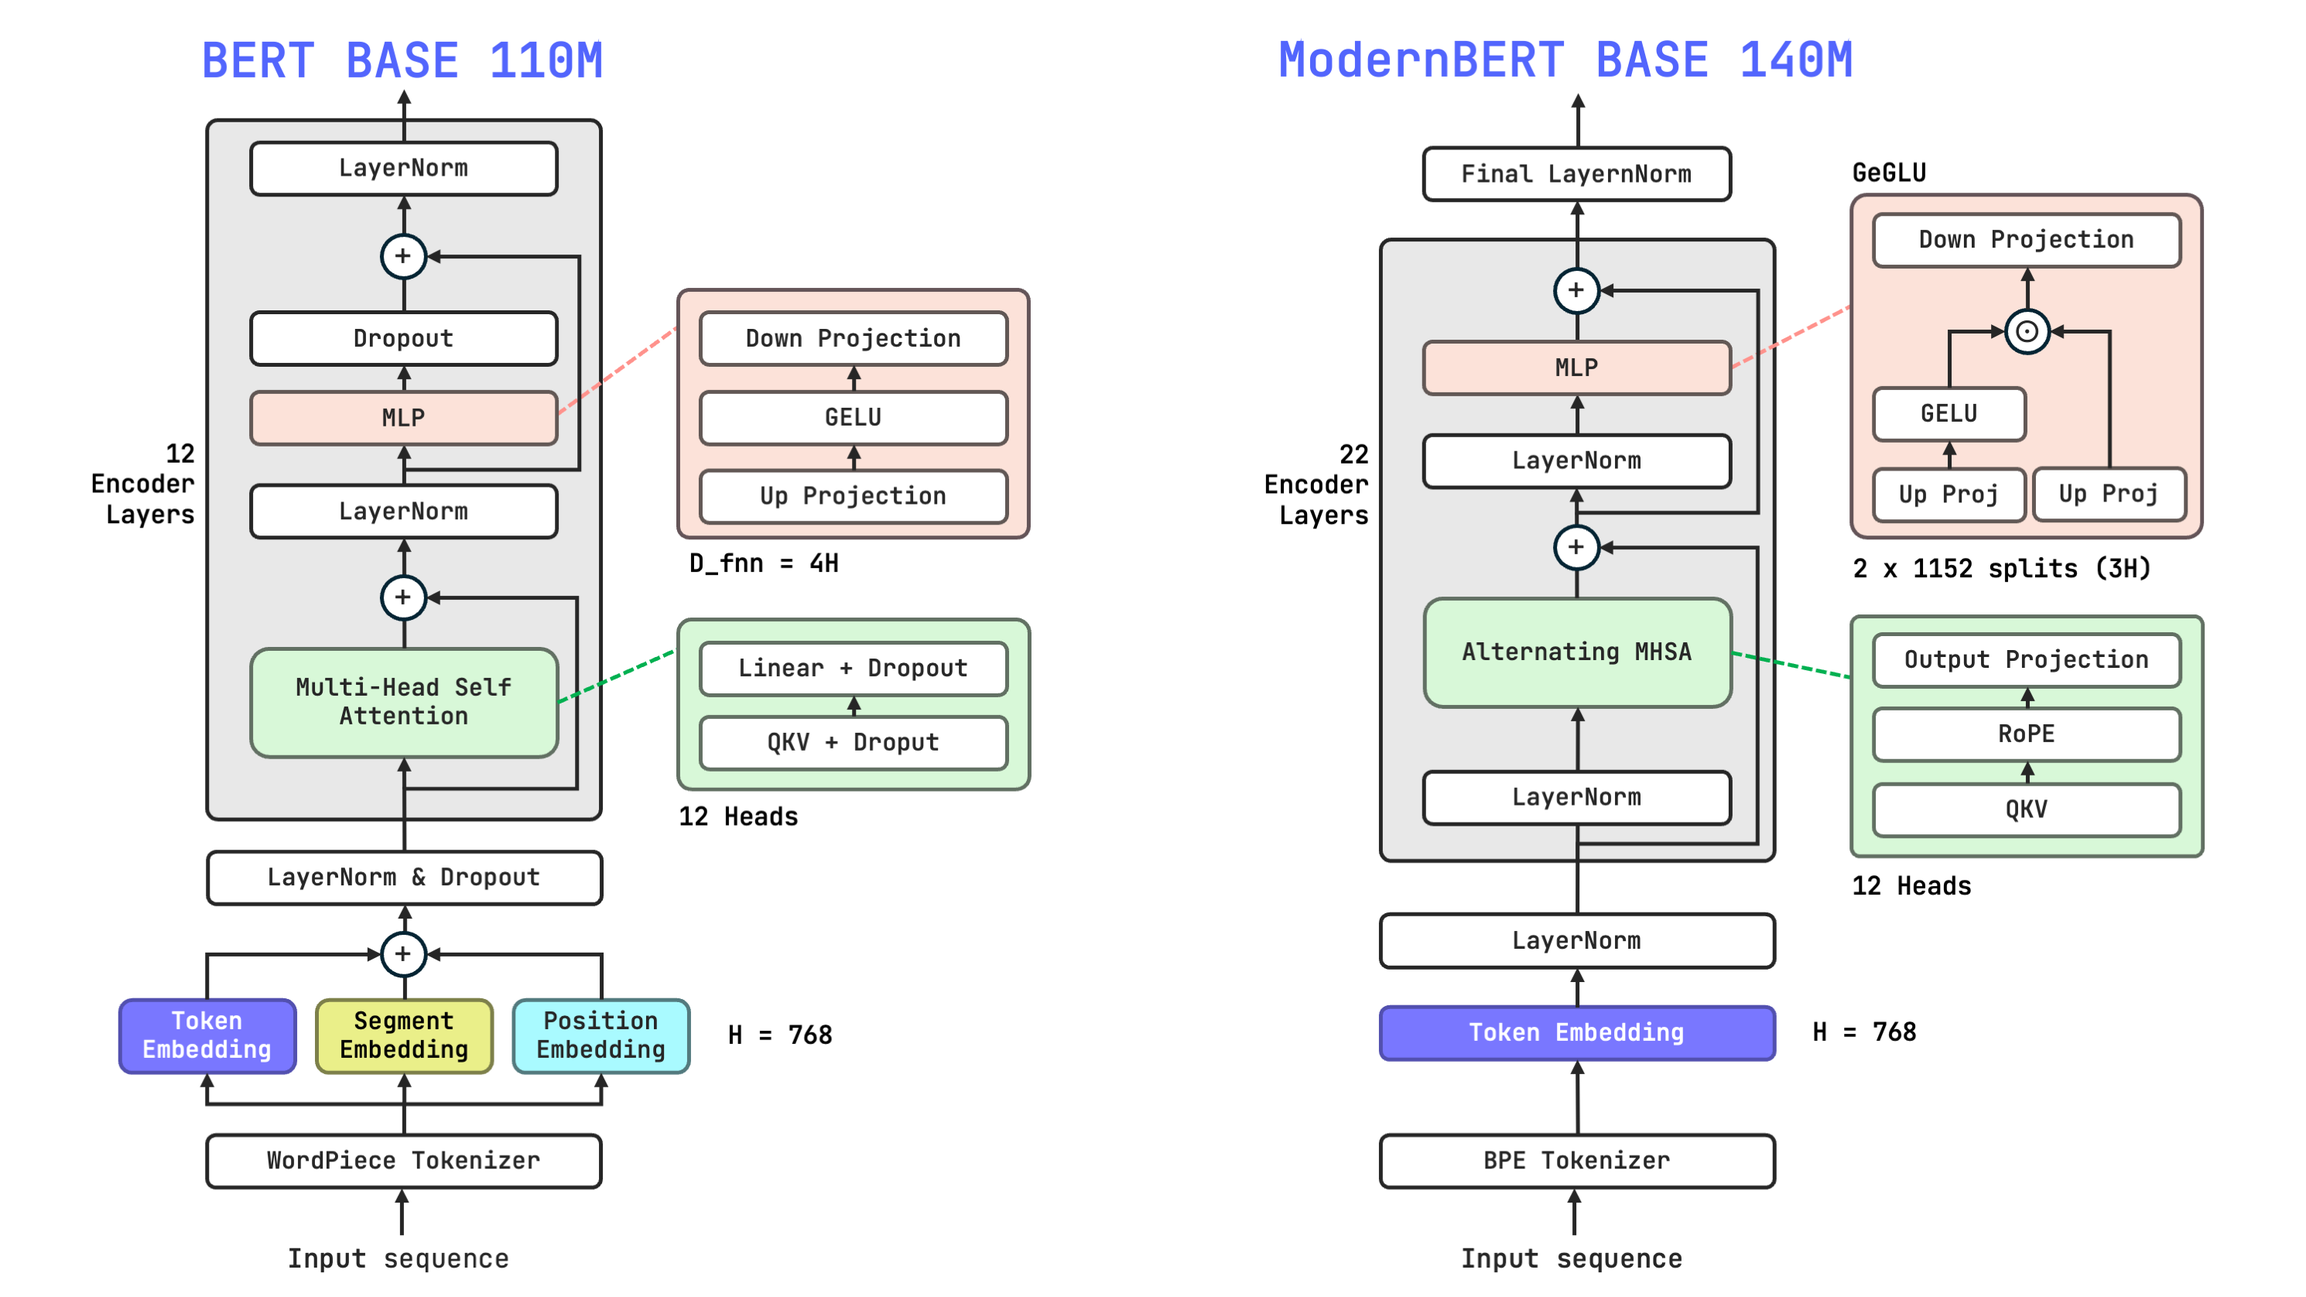
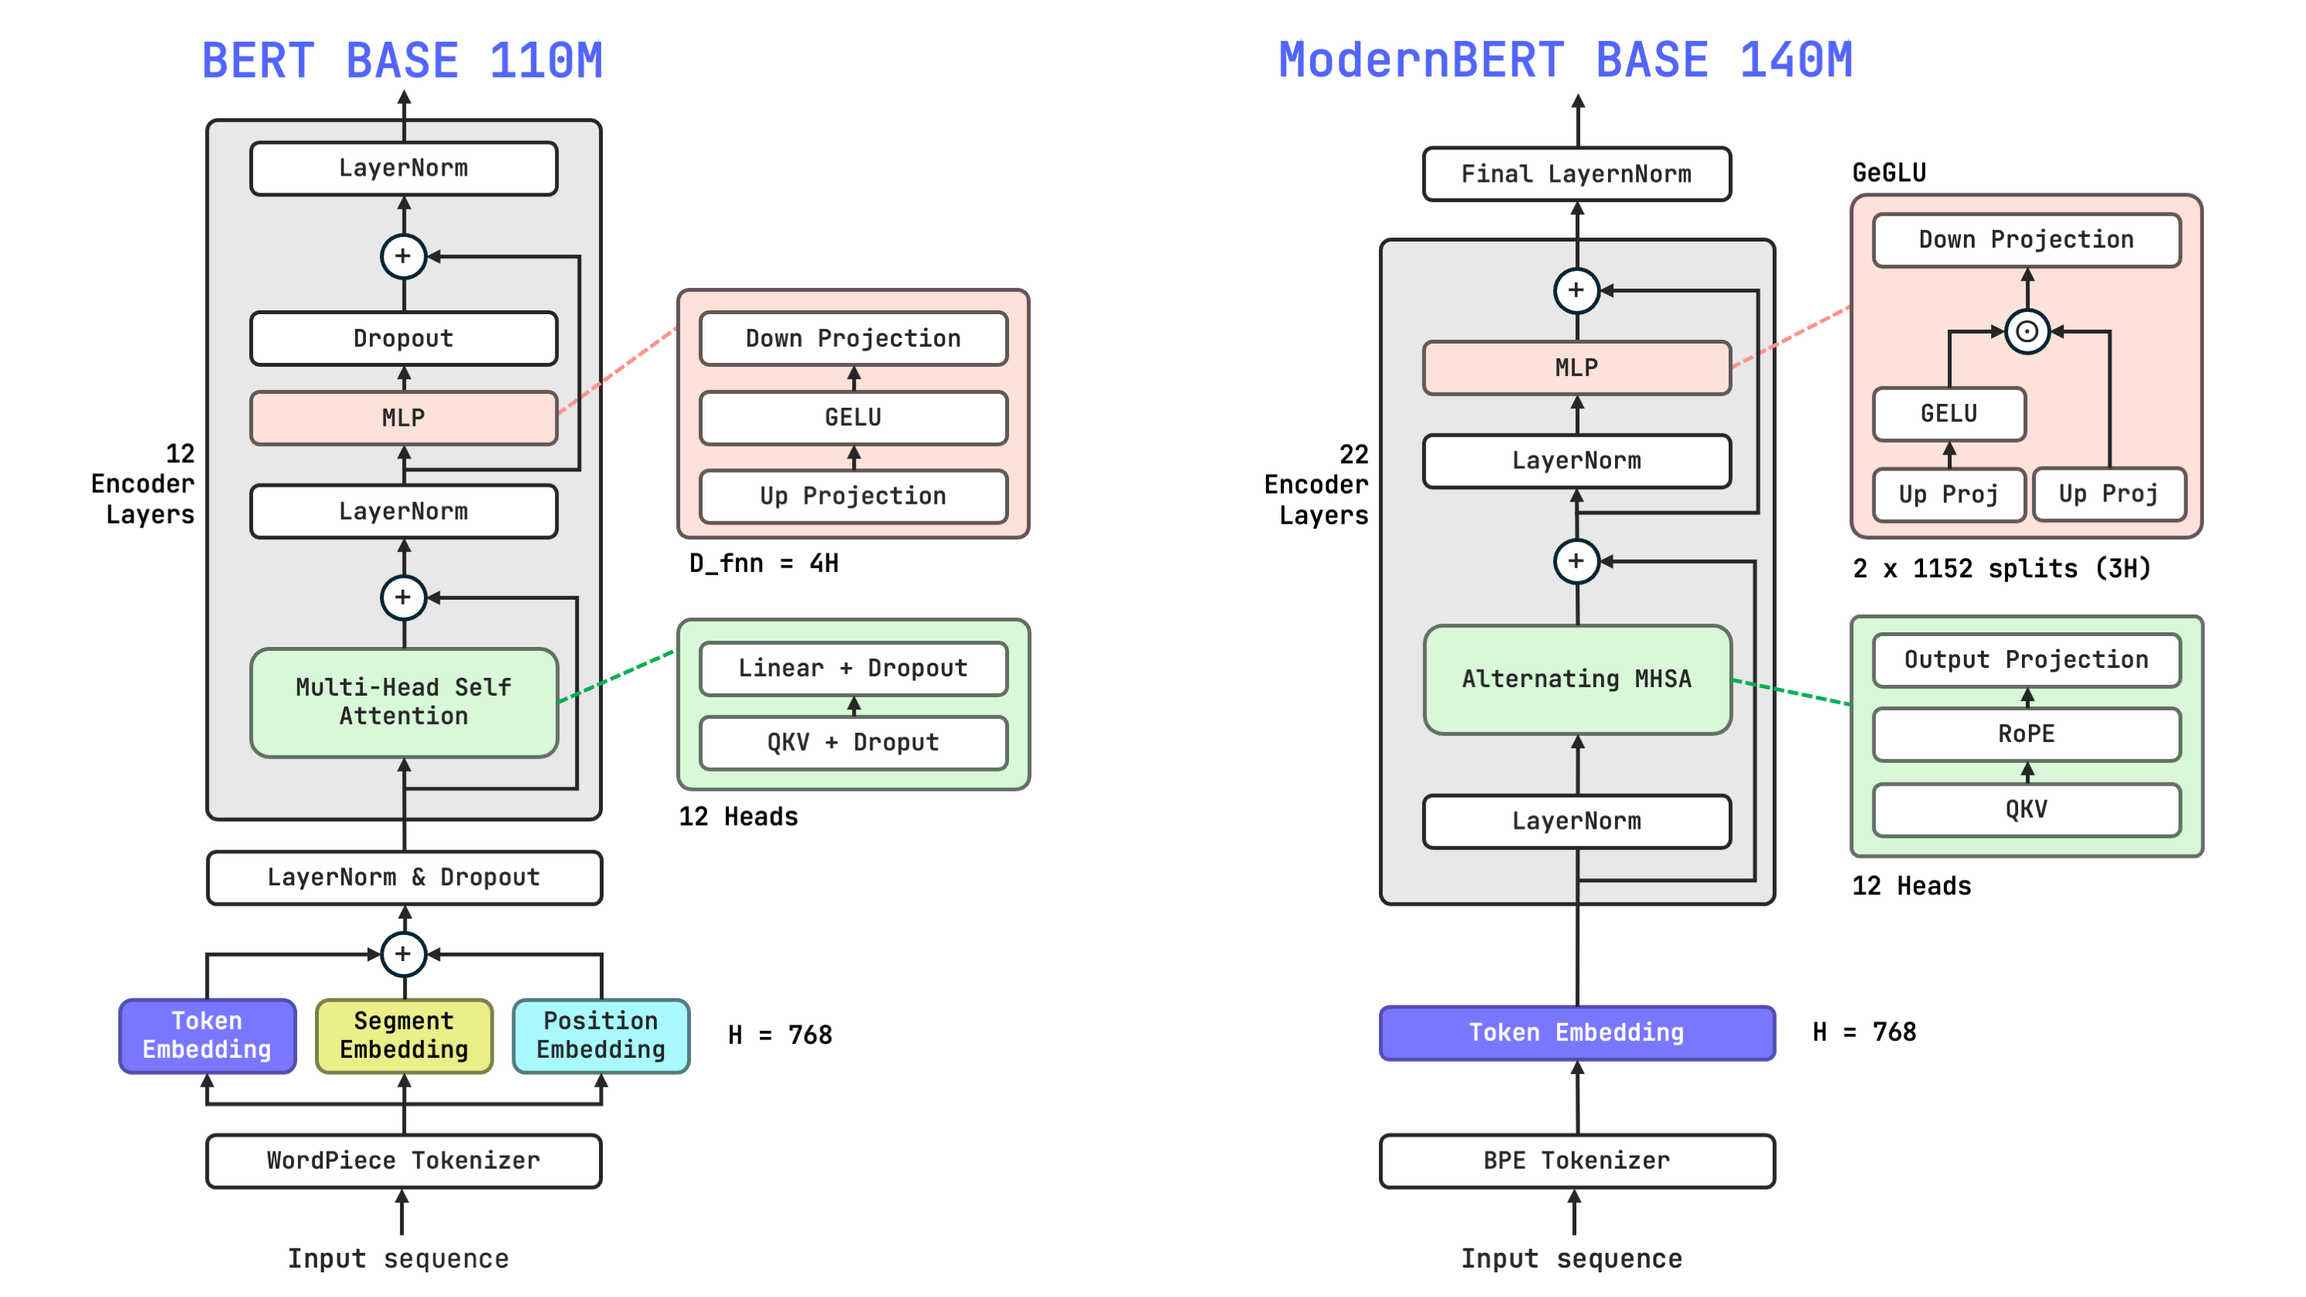
more visuals + table of contents

Changed region(s): [[0.593, 0.4033, 0.7802, 0.7757]]

diff --git a/blogs/modernbert-bert-comp.html b/blogs/modernbert-bert-comp.html
@@ -30,7 +30,7 @@
                 <nav class="nav-links">
                     <a href="blogs.html" class="nav-link">Blogs</a>
                     <a href="../projects/projects.html" class="nav-link">Projects</a>
-                    <a href="https://www.linkedin.com/in/mohammed-sbaihi-aa6493254/" target="_blank" class="nav-link">Resume</a>
+                    <a href="../resume.html" class="nav-link">Resume</a>
                 </nav>
                 <div class="social-icons">
                     <a href="https://github.com/kevlariii" target="_blank" class="social-link">
@@ -52,7 +52,7 @@
             <header class="blog-header">
                 <h1 class="blog-post-title">ModernBERT vs BERT: A Comprehensive Comparison</h1>
                 <div class="blog-meta">
-                    <time datetime="2025-01-20">Nov 24, 2025</time>
+                    <time datetime="2025-01-20">January 20, 2025</time>
                 </div>
             </header>
             
@@ -88,7 +88,17 @@
             document.querySelector('.nav-links').classList.toggle('active');
         });
 
-        // Initialize markdown-it with KaTeX for math rendering
+        // Function to slugify heading text (GitHub-style)
+        function slugify(text) {
+            return text
+                .toLowerCase()
+                .trim()
+                .replace(/[^\w\s-]/g, '')
+                .replace(/[\s_-]+/g, '-')
+                .replace(/^-+|-+$/g, '');
+        }
+
+        // Initialize markdown-it
         const md = window.markdownit({
             html: true,
             linkify: true,
@@ -107,6 +117,24 @@
             katexOptions: { macros: {"\\RR": "\\mathbb{R}"} }
         });
 
+        // Override heading renderer to add IDs
+        const defaultHeadingRender = md.renderer.rules.heading_open || function(tokens, idx, options, env, self) {
+            return self.renderToken(tokens, idx, options);
+        };
+
+        md.renderer.rules.heading_open = function (tokens, idx, options, env, self) {
+            const token = tokens[idx];
+            const nextToken = tokens[idx + 1];
+            
+            if (nextToken && nextToken.type === 'inline') {
+                const headingText = nextToken.content;
+                const id = slugify(headingText);
+                token.attrSet('id', id);
+            }
+            
+            return defaultHeadingRender(tokens, idx, options, env, self);
+        };
+
         // Fetch and render markdown
         fetch('modernbert-bert-comp.md')
             .then(response => response.text())
@@ -120,6 +148,23 @@
                     wrapper.className = 'table-wrapper';
                     table.parentNode.insertBefore(wrapper, table);
                     wrapper.appendChild(table);
+                });
+
+                // Add smooth scrolling for TOC links
+                document.querySelectorAll('.blog-content .toc a[href^="#"]').forEach(anchor => {
+                    anchor.addEventListener('click', function (e) {
+                        e.preventDefault();
+                        const targetId = this.getAttribute('href').substring(1);
+                        const target = document.getElementById(targetId);
+                        if (target) {
+                            const navbarHeight = 70;
+                            const targetPosition = target.getBoundingClientRect().top + window.pageYOffset - navbarHeight - 20;
+                            window.scrollTo({
+                                top: targetPosition,
+                                behavior: 'smooth'
+                            });
+                        }
+                    });
                 });
             })
             .catch(error => console.error('Error loading markdown:', error));

diff --git a/styles/blogs.css b/styles/blogs.css
@@ -608,3 +608,32 @@ body {
         font-size: 1.1rem;
     }
 }
+
+/* Table of Contents styling - CLEAN VERSION */
+.blog-content .toc {
+    /* background: #106dca; */
+    border-radius: 8px;
+    padding: 1.5rem 2rem;
+    margin: 2rem 0;
+}
+
+.blog-content .toc h2 {
+    margin-top: 0;
+    margin-bottom: 1rem;
+}
+
+.blog-content .toc ol,
+.blog-content .toc ul {
+    margin-bottom: 0;
+    padding-left: 1.5rem;
+}
+
+.blog-content .toc li {
+    margin-bottom: 0.25rem !important;
+}
+
+.blog-content .toc ol ol,
+.blog-content .toc ul ul {
+    margin-top: 0.25rem;
+    margin-bottom: 0;
+}

diff --git a/blogs/modernbert-bert-comp.md b/blogs/modernbert-bert-comp.md
@@ -8,12 +8,43 @@ But tokenization isn't the only aspect where ModernBERT evolves from BERT. Moder
 
 Figure 1: Architectures of the BASE version of BERT and ModernBERT
 
+<div class="toc">
+
+## Table of Contents
+1. [Architecture](#1-architecture)
+   - [Embedding Layer](#11-embedding-layer)
+   - [Encoder Layers](#12-encoder-layers)
+     - [Attention Mechanism](#121-attention-mechanism)
+     - [MLP](#122-mlp)
+     - [Normalization](#123-normalization)
+     - [Dropout](#124-dropout)
+2. [Training Objectives](#2-training-objectives)
+   - [Masked Language Modeling (MLM)](#21-masked-language-modeling-mlm)
+     - [MLM in BERT](#211-mlm-in-bert)
+     - [MLM in ModernBERT](#212-mlm-in-modernbert)
+   - [Next Sentence Prediction (NSP)](#22-next-sentence-prediction-nsp)
+3. [Training Data](#3-training-data)
+   - [BERT Training Data](#31-bert-training-data)
+   - [ModernBERT Training Data](#32-modernbert-training-data)
+4. [Training Paradigms](#4-training-paradigms)
+   - [BERT Training Paradigm](#41-bert-training-paradigm)
+   - [ModernBERT Training Paradigm](#42-modernbert-training-paradigm)
+5. [Conclusion](#5-conclusion)
+
+</div>
+
 ## 1. Architecture
 Both BERT and ModernBERT are based on the [Transformer architecture](https://arxiv.org/abs/1706.03762). They both utilize the encoder part of the Transformer, which is designed for Representation Learning (i.e., the goal is to learn rich representations of the input text) as opposed to decoder architectures used in models like GPT, which are optimized for text generation. However, ModernBERT incorporates several architectural improvements over BERT. These improvements are especially inspired by advancements in decoder models. We'll go over them in this section.
 
 ### 1.1 Embedding Layer
 To represent input embeddings, BERT uses a combination of token embeddings, segment embeddings and position embeddings.
 These embeddings are summed together and are learned during training. Token embeddings are the base embeddings for each token in the vocabulary. Segment embeddings are used to differentiate between two sentences in the Next Sentence Prediction (NSP) task, which was one of the two pre-training objectives of BERT (alongside Masked Language Modeling (MLM)). Position embeddings are used to inject positional information into the model since during training (and inference as well in encoder models) tokens are processed in parallel and thus the model has no inherent sense of token order. 
+
+<p align="center">
+    <img src="../assets/blogs-assets/bert-modernbert/bert-embed.png" alt="Figure 2: BERT's Embedding Layer" width="700">
+</p>
+
+Figure 2: BERT's Embedding Layer
 
 Note that while the original BERT paper doesn't state whether they use learned (absolute) position embeddings or sinusoidal position encodings as in the original Transformer paper, but we can confirm that they use learned position embeddings by inspecting the BERT implementation in the HuggingFace `transformers` library.
 
@@ -33,6 +64,12 @@ We see that BERT uses absolute learned position embeddings with a maximum sequen
 
 ModernBERT, on the other hand, only uses learned token embeddings, it doesn't use segment embeddings since it doesn't use the NSP objective during pre-training (we'll discuss this more in the Training Objectives section). And it doesn't use position embeddings either. Instead it uses [Rotary Position Embeddings (RoPE)](https://arxiv.org/abs/2104.09864) to inject positional information into the model. RoPE has been shown to be more effective than absolute position embeddings in capturing relative positions between tokens, which is crucial for understanding context in language. Additionally, RoPE allows ModernBERT to handle longer sequences more effectively than BERT, as it doesn't have a hard cap on input length like BERT does. While it still has a limit of 8192 tokens, this limit is soft and not architecturally enforced. This limit is especially achieved by tuning RoPE scaling parameters during training. Nevertheless, you can go beyone this limit during inference but with potential degradation in performance.
 
+<p align="center">
+    <img src="../assets/blogs-assets/bert-modernbert/modernbert-embed.png" alt="Figure 3: ModernBERT's Embedding Layer" width="700">
+</p>
+
+Figure 3: ModernBERT's Embedding Layer
+
 One common aspect here is that both models have a hidden dimension of 768 in their BASE versions and 1024 in their LARGE versions.
 
 ### 1.2 Encoder Layers
@@ -41,6 +78,12 @@ Both BERT and ModernBERT use the Transformer encoder layers. Each layer consists
 - MLP (Feed-Forward Neural Network)
 - Normalization
 - Residual Connections
+
+<p align="center">
+    <img src="../assets/blogs-assets/bert-modernbert/encoder-blocks.png" alt="Figure 4: Encoder Layers in BERT and ModernBERT" width="700">
+</p>
+
+Figure 4: Encoder Layers in BERT and ModernBERT
 
 But each model has its own tweaks to these building blocks. And we will discuss each one below. But one main difference is that BERT has 12 encoder layers in its BASE version and 24 in its LARGE version, while ModernBERT has 22 encoder layers in its BASE version and 28 in its LARGE version. Which also explain the difference in the number of parameters: 
 
@@ -57,13 +100,13 @@ ModernBERT also uses the same mechanism but with three main differences:
 1. **Alternating Attention**:
     ModernBERT alternates between Global (Full) Attention and Local Attention. Global Attention is used every 3rd layer. See Figure below for a visual representation of these attention patterns.
 
-    This means that in layers where Local Attention is used, each token can only attend to a fixed window $w$ of previous tokens ($w=128$ in BASE version). This significantly reduces the computational complexity of the attention mechanism from $O(L^2)$ in every layer in BERT to $O(L \cdot w)$ in Local Attention layers in ModernBERT, where $L$ is the sequence length. While the Global Attention layers still have a complexity of $O(L^2)$, They only make up 1/3 of the total layers, thus reducing the overall complexity of the model. 
+    This means that in layers where Local Attention is used, each token can only attend to a fixed window $w$ of neighboring tokens ($w=128$ in BASE version). This significantly reduces the computational complexity of the attention mechanism from $O(L^2)$ in every layer in BERT to $O(L \cdot w)$ in Local Attention layers in ModernBERT, where $L$ is the sequence length. While the Global Attention layers still have a complexity of $O(L^2)$, They only make up 1/3 of the total layers, thus reducing the overall complexity of the model.
 
 <p align="center">
-    <img src="../assets/blogs-assets/bert-modernbert/attention.png" alt="Figure 2: Global and Local Attention Patterns in Bidirectional MLM" width="700">
+    <img src="../assets/blogs-assets/bert-modernbert/attention.png" alt="Figure 5: Global and Local Attention Patterns in Bidirectional MLM" width="700">
 </p>
 
-Figure 2: Global and Local Attention Patterns in Bidirectional MLM
+Figure 5: Global and Local Attention Patterns in Bidirectional MLM
 
 2. **RoPE**:
     As I mentioned earlier, ModernBERT uses RoPE to inject positional information into the model. This happens in every attention layer by modifiying the query and key vectors before computing the attention scores.
@@ -83,6 +126,13 @@ Figure 2: Global and Local Attention Patterns in Bidirectional MLM
 However, both models use the same number of attention heads: 12 in BASE versions and 16 in LARGE versions.
 
 #### 1.2.2 MLP
+
+<p align="center">
+    <img src="../assets/blogs-assets/bert-modernbert/ffn-layers.png" alt="Figure 6: Feed Forward Network Layers in BERT and ModernBERT" width="700">
+</p>
+
+Figure 6: Feed Forward Network Layers in BERT and ModernBERT
+
 BERT uses a standard two layer Feed-Forward Neural Network (FFN) with a GELU activation function in between. The hidden dimension of the FFN is 4 times the model's hidden dimension (i.e 4x expansion). 
 
 ```bash
@@ -157,6 +207,13 @@ BERT was the very first encoder-only Transformer model. People reading the BERT 
 ### 2.1 Masked Language Modeling (MLM)
 The idea of MLM is very simple and intuitive. During training, some tokens in the input sequence are randomly masked (replaced with a special `[MASK]` token). The model is then trained to predict the original tokens based on the context provided by the unmasked tokens. In MLM, the context is bidirectional, meaning the model can attend to both left and right context tokens to make predictions, as opposed to Causal Language Modeling (CLM) used in decoder-only models where the model can only attend to left context tokens (previous tokens).
 
+<p align="center">
+    <img src="../assets/blogs-assets/bert-modernbert/mlm.png" alt="Figure 7: Masked Language Modeling" width="700">
+</p>
+
+Figure 7: Masked Language Modeling
+
+
 #### 2.1.1 MLM in BERT
 BERT uses static masking during training. This means that the positions of the masked tokens are fixed for each training example throughout the entire training process. Specifically, 15% of the tokens in each input sequence are selected for masking. Of these selected tokens:
 - 80% are replaced with the `[MASK]` token.
@@ -172,6 +229,13 @@ ModernBERT follows MosaicBERT's approach and uses dynamic masking during trainin
 Unlike BERT, ModernBERT masks 30% of tokens in each input sequence. It doesn't strictly follow BERT's corruption strategy. It mostly replaces masked tokens with the `[MASK]` token, but it also uses random replacements to a lesser extent. This matches the RoBERTa-style MLM, which MosaicBERT follows. The masking ratio of 30% allows the model to learn more robust representations by forcing it to predict a larger portion of the input. We might also infer that ModernBERT used Span-based masking (by masking contiguous spans of tokens), but the authors don't explicitly state this in the paper.
 
 ### 2.2 Next Sentence Prediction (NSP)
+
+<p align="center">
+    <img src="../assets/blogs-assets/bert-modernbert/nsp.png" alt="Figure 8: Next Sentence Prediction" width="700">
+</p>
+
+Figure 8: Next Sentence Prediction
+
 NSP is a binary classification task where the model is given two sentences and must predict whether the second sentence follows the first one in the original text. This objective was designed to help BERT understand the relationship between sentences, which is important for tasks like Question Answering and Natural Language Inference. This is why BERT uses segment embeddings to differentiate between the two sentences. However, later research showed that NSP doesn't significantly improve performance on downstream tasks. This led to the removal of the NSP objective in later models like RoBERTa and ModernBERT.
 
 This difference illustrates the evolution of training objectives in encoder-only models, moving away from sophisticated MLM+NSP strategies towards new MLM techniques that leverage larger datasets, improved architectures and modern optimization methods.
@@ -200,10 +264,10 @@ BERT used a standard training paradigm for Transformer models at the time. It wa
 ### 4.2 ModernBERT Training Paradigm
 ModernBERT was trained in a multi-phase training paradigm as illustrated in the figure below.
 <p align="center">
-    <img src="../assets/blogs-assets/bert-modernbert/newplot.png" alt="Figure 3: ModernBERT learning rate evolution during pre-training" width="700">
+    <img src="../assets/blogs-assets/bert-modernbert/newplot.png" alt="Figure 9: ModernBERT learning rate evolution during pre-training" width="700">
 </p>
 
-Figure 3: ModernBERT learning rate evolution during pre-training
+Figure 9: ModernBERT learning rate evolution during pre-training
 
 
 The model also used StableAdamW optimizer instead of BERT's Adam.
